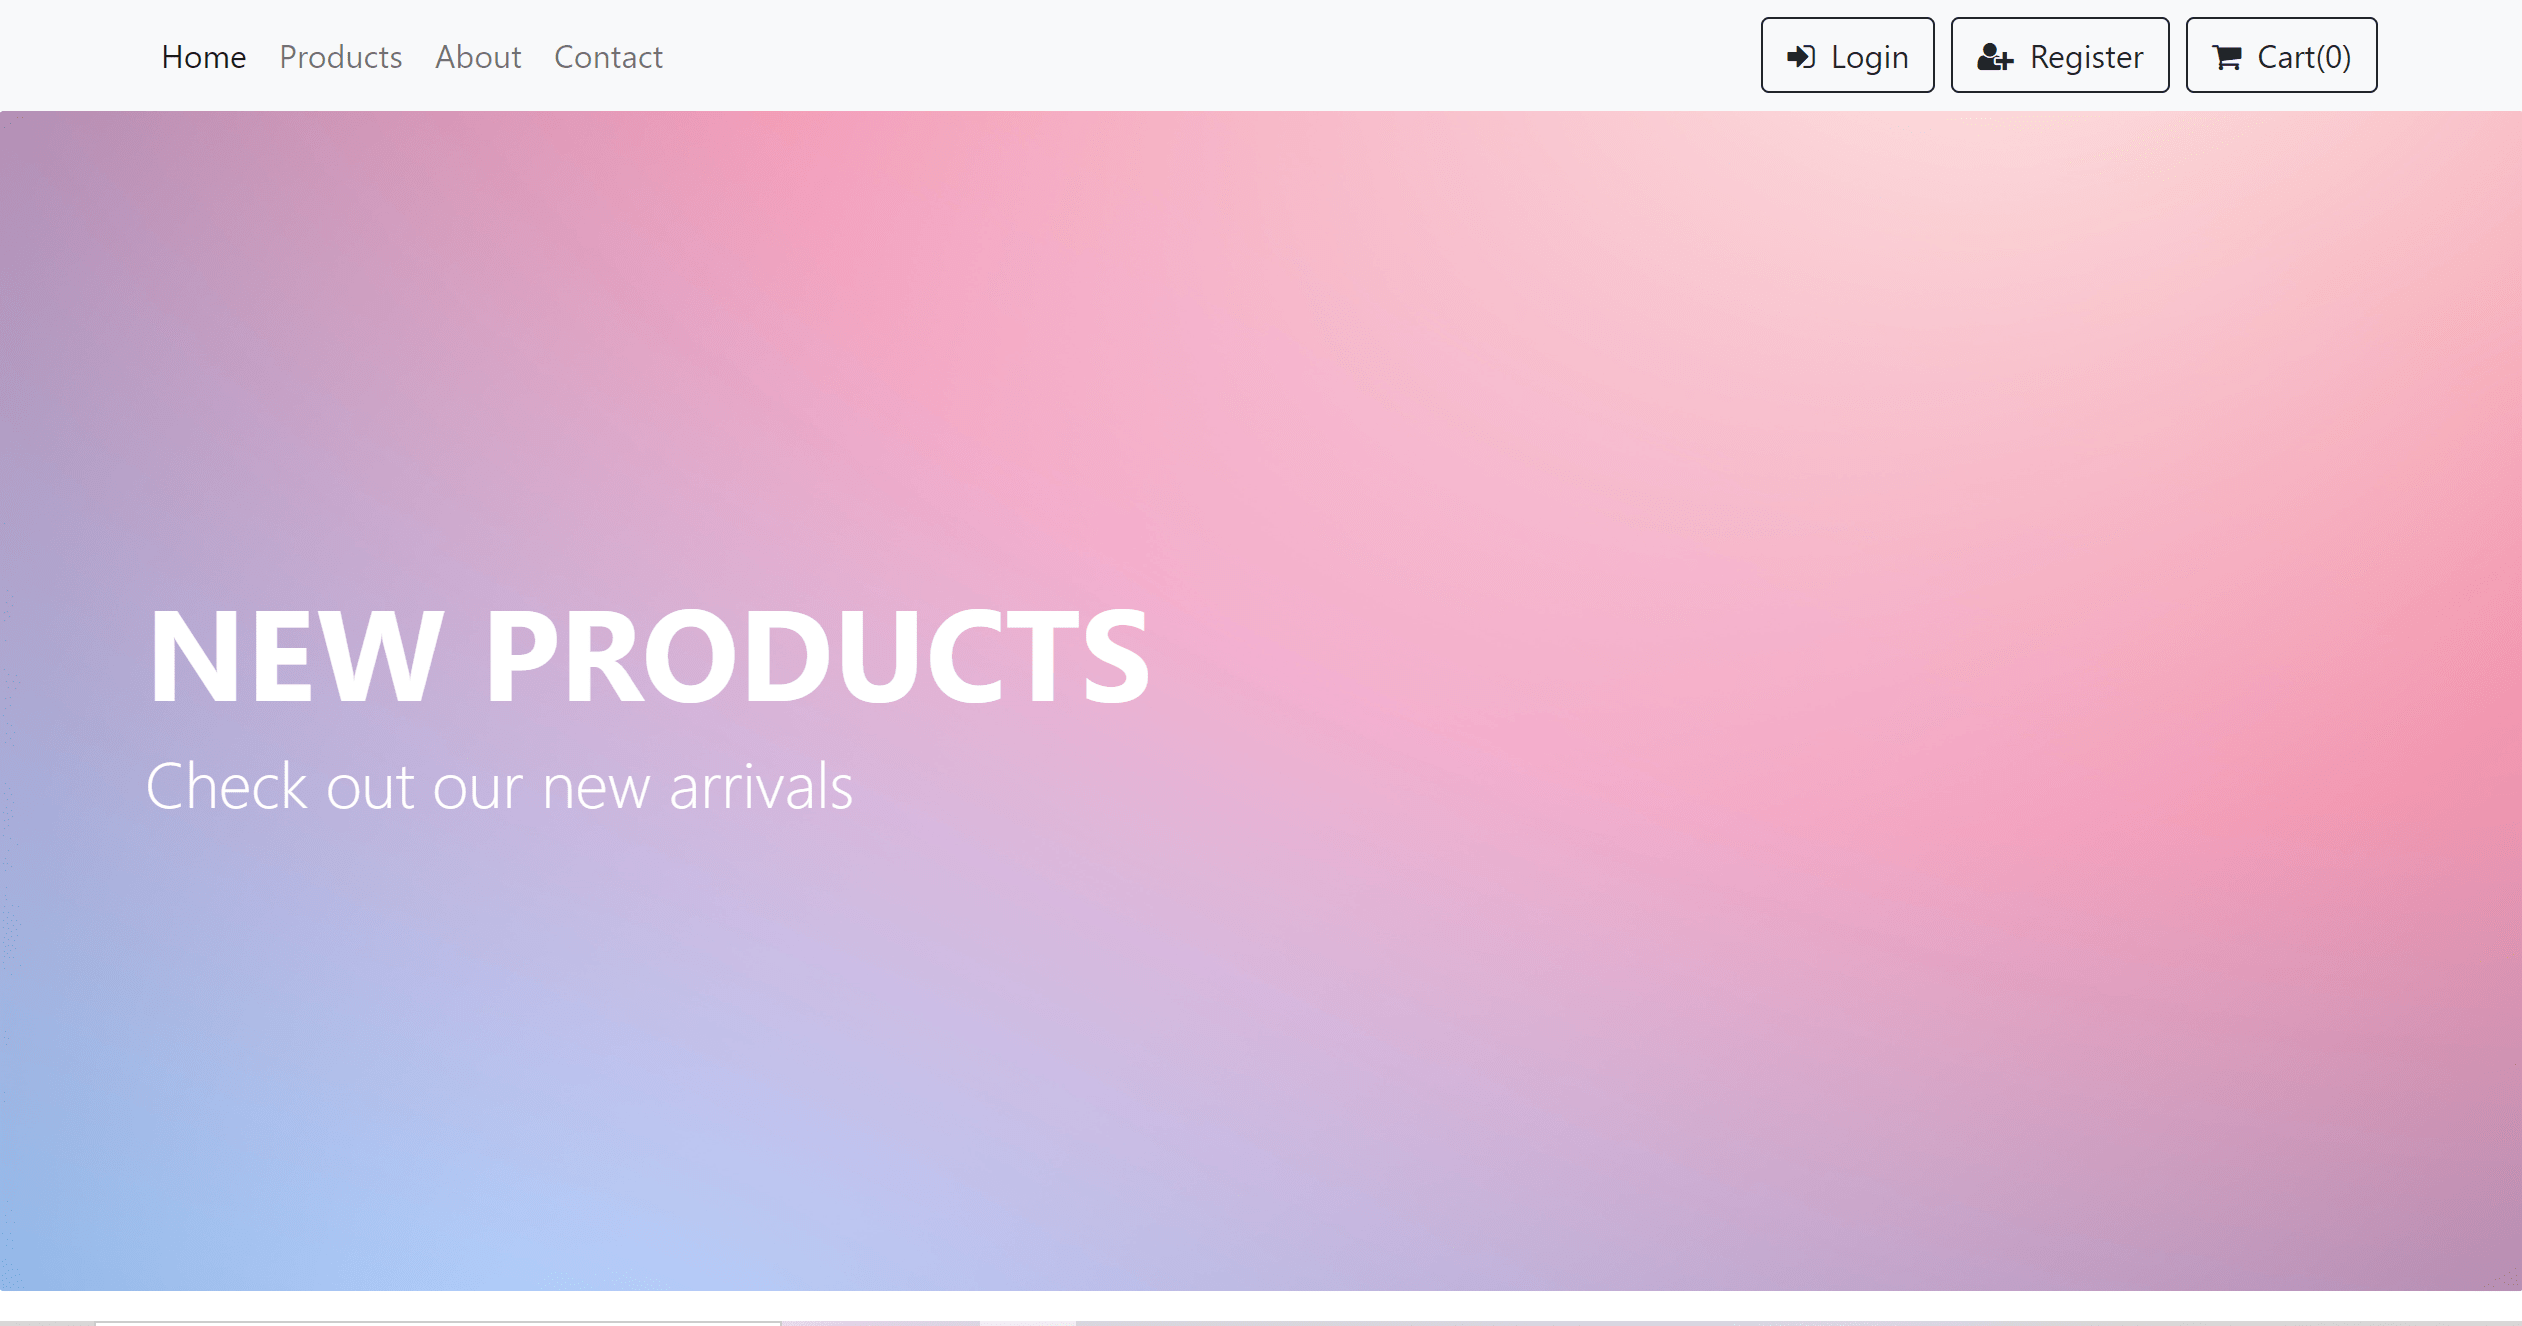
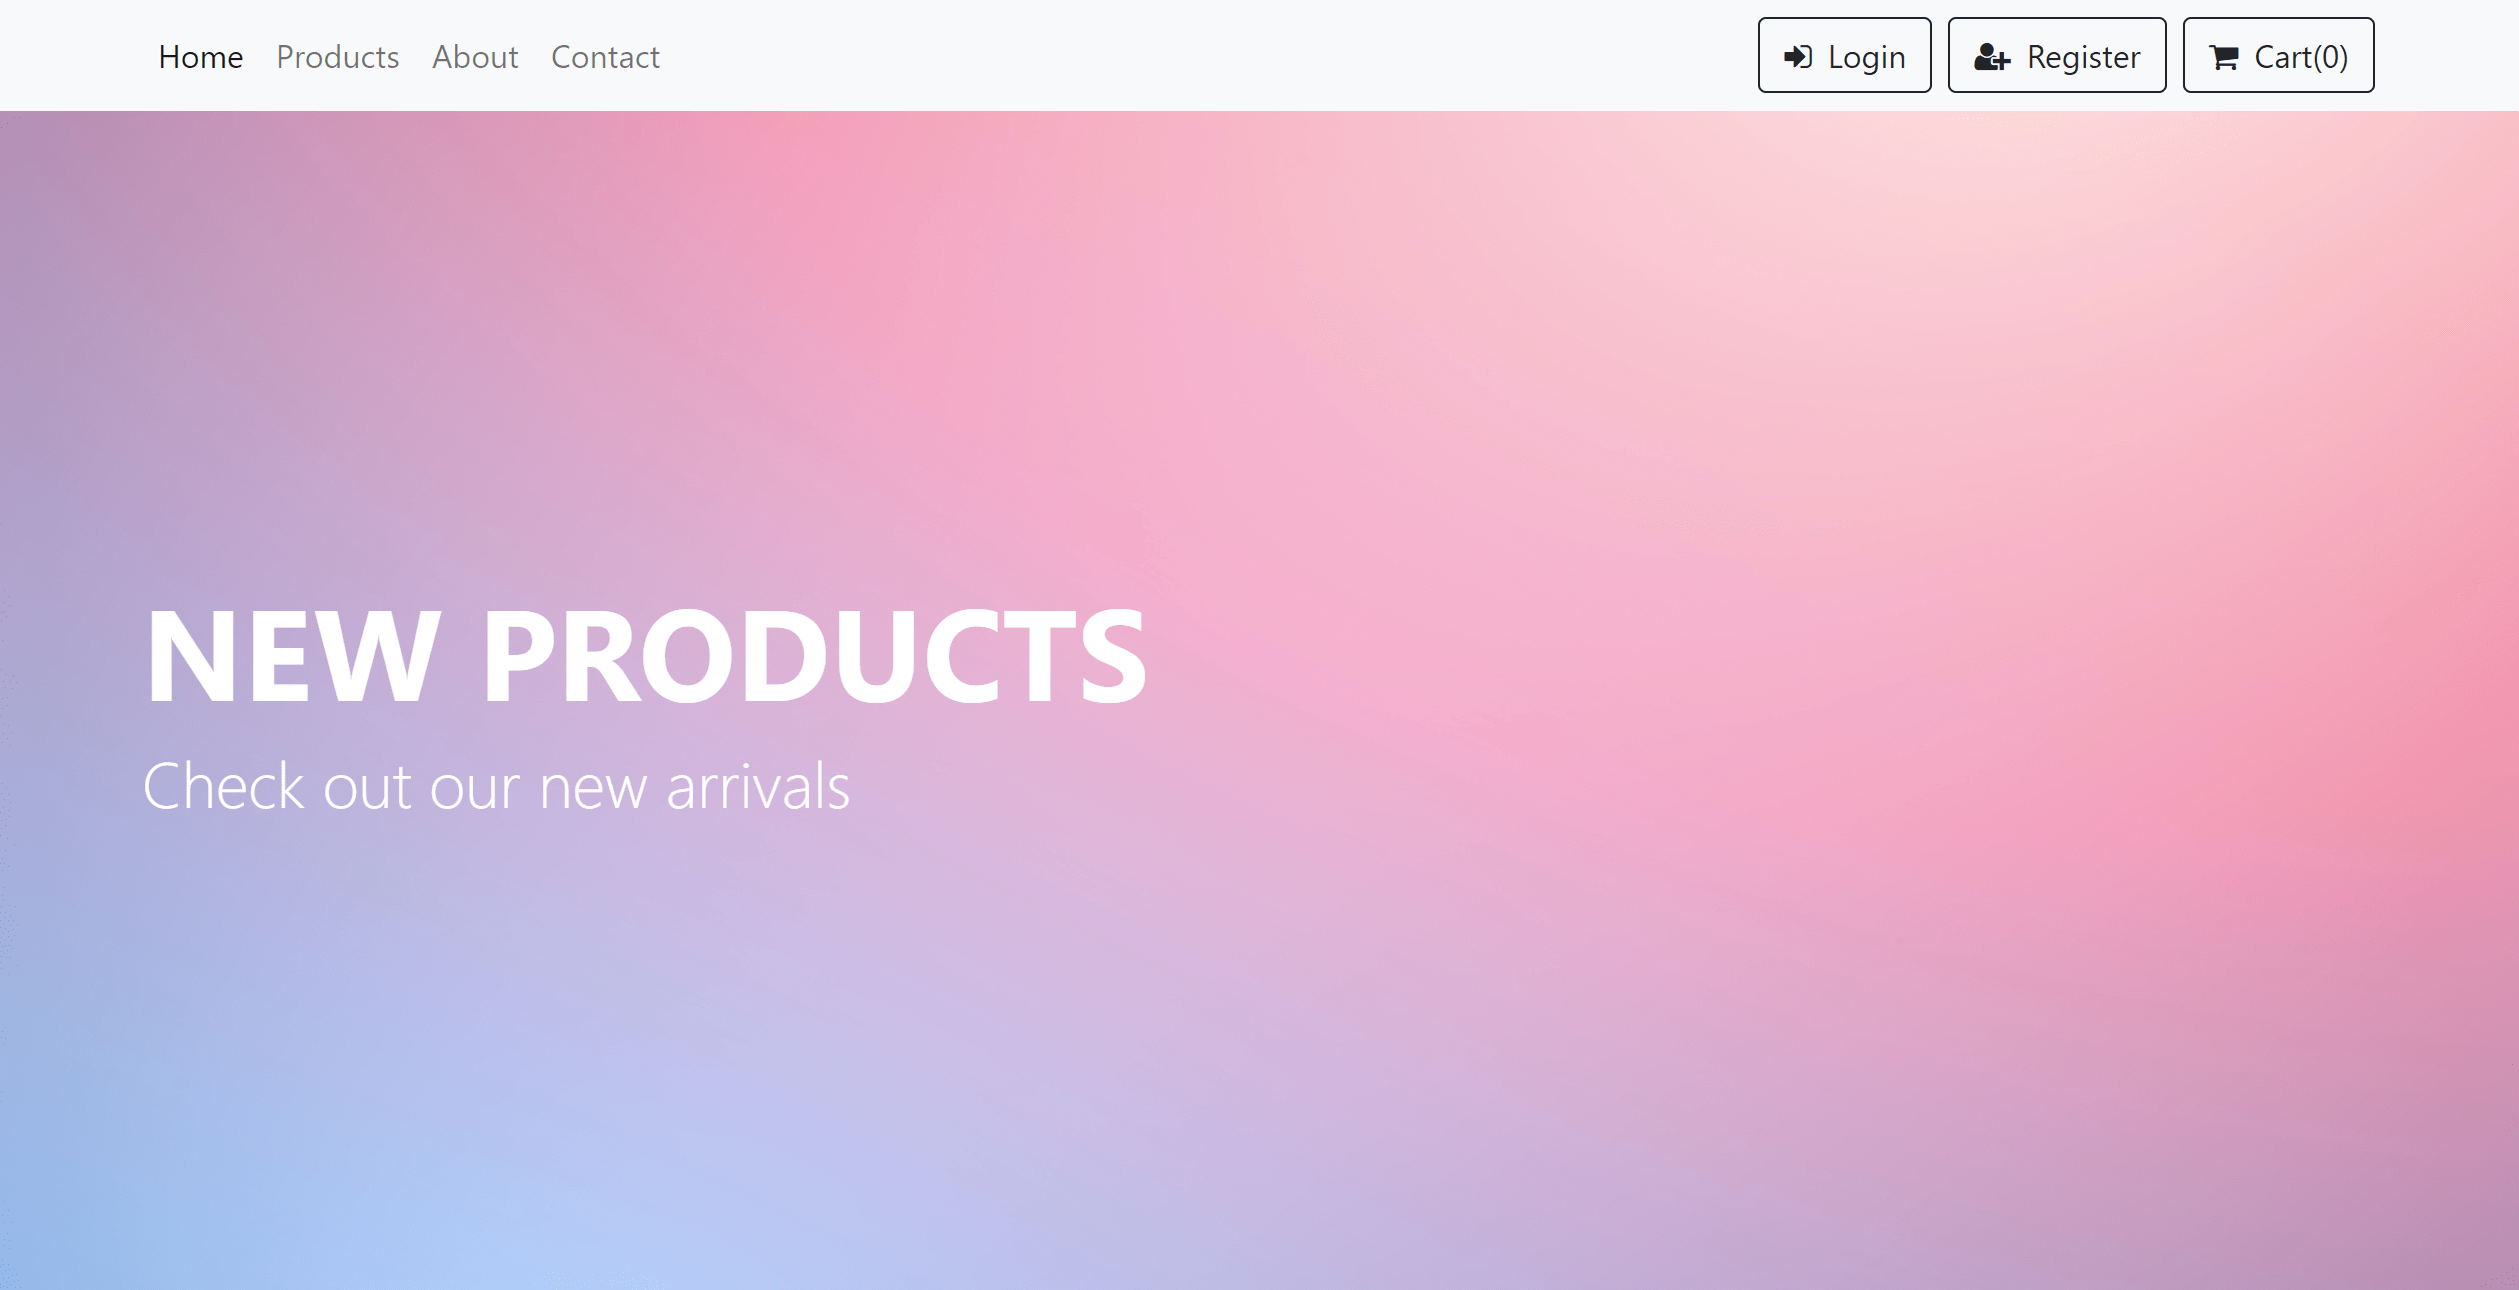
tablet design for hero

diff --git a/styles/components/_work.scss b/styles/components/_work.scss
@@ -4,39 +4,61 @@
     ul {
         display: flex;
         flex-direction: column;
+        align-items: center;
+        margin: 0px;
+        padding: 0px;
         li {
             list-style-type: none;
-            padding: 2rem;
-
-            a {
-                padding: 2rem;
-            }
+            margin: 6vh 8vh;   
+           
+        }
+        
+        p {
+            padding-right: 35px;
+            color: #393e46;
         }
     }
 
     img {
-        -webkit-filter: grayscale(100%); /* Safari 6.0 - 9.0 */
-        filter: grayscale(100%);
-        opacity: 0.25;
-    }
-    
-    img:hover {
-            filter: none;
-            opacity: 1;
-            transition: opacity 1s ease;
-    }
+    -webkit-filter: grayscale(50%); /* Safari 6.0 - 9.0 */
+    filter: grayscale(50%);
+    opacity: 0.35;
 }
 
-.photo-gallery {
-    align-self: end;
+img:hover {
+        filter: none;
+        opacity: 1;
+        transition: opacity 1s ease;
 }
 
-.work-card {
-    display: flex;
-    justify-content: space-between;
 }
+
 
 .work-title {
-    padding: 2rem;
     font-family: Roboto;
+    font-weight: 1600;
+    font-size: 1.2rem;
+}
+
+@include breakpoint-up(medium) {
+
+    .photo-gallery {
+        align-self: flex-end;
+    }
+    
+    .work-card {
+        display: flex;
+        justify-content: space-between;
+    }
+
+    .work-title {
+        padding: 2rem;
+    }
+
+    .work {
+    img {
+        -webkit-filter: grayscale(100%); /* Safari 6.0 - 9.0 */
+        filter: grayscale(100%);
+    }
+ }
 }

diff --git a/components/Work.jsx b/components/Work.jsx
@@ -16,12 +16,12 @@ const Work = () => {
                                width={500}
                                height={263}/>
                     </a>
-                    <p className='work-title'>Final Fantasy Notes</p>
+                    <h3 className='work-title'>Final Fantasy Notes</h3>
+                    <p>A tribute to the Final Fantasy franchise</p>
                     </div>
                 </li>
                 <li className='photo-gallery'>
                     <div className='work-card'>
-                    <p className='work-title'>Photo Gallery</p>
                     <a
                     href='https://pictures-photo-gallery.herokuapp.com/'
                     rel='noreferrer'
@@ -31,6 +31,8 @@ const Work = () => {
                         alt='photogallery thumbnail'
                         width={500}
                         height={263}/>
+                    <h3 className='work-title'>Photo Gallery</h3>
+                    <p>Photo Gallery from Unsplash</p>
                     </a>
                     </div>
                 </li>
@@ -46,7 +48,8 @@ const Work = () => {
                         width={500}
                         height={263}/>
                     </a>
-                    <p className='work-title'>eShop</p>
+                    <h3 className='work-title'>eShop</h3>
+                    <p>eShop experience</p>
                     </div>
                 </li>
             </ul>

diff --git a/styles/components/_header.scss b/styles/components/_header.scss
@@ -1,6 +1,6 @@
 .header {
     display: flex;
-    justify-content: start;
+    justify-content: flex-start;
     align-items: center;
     position: fixed;
     margin: 0px;
@@ -13,6 +13,10 @@
 .logo {
     width: 40px;
     height: 40px;
+
+    a {
+        text-decoration: none;
+    }
 }
 
 @include breakpoint-up(medium) {
@@ -23,7 +27,7 @@
 
    .nav { 
     padding: 1.25rem 3rem;
-    justify-content: flex-end
+    justify-content: flex-end;
    }
 
    a {

diff --git a/styles/components/_contact.scss b/styles/components/_contact.scss
@@ -2,11 +2,17 @@
     min-height: 100vh;
     height: auto;
     padding: 3rem;
-
+    display: flex;
+    flex-direction: column;
+    justify-content: space-around;
     h2 {
         font-family: Roboto;
-        font-size: 60px;
+        font-size: 50px;
         padding: 3rem 0;
+    }
+
+    a {
+        padding: 0px;
     }
 }
 

diff --git a/styles/components/_about.scss b/styles/components/_about.scss
@@ -1,6 +1,6 @@
 .about {
     font-size: 1.4rem;
-    align-self: end;
+    align-self: flex-end;
     text-align: right;
 }
 
@@ -8,7 +8,7 @@
     .about {
         font-size: $sm;
         padding: 20px;
-        justify-self: end;
-        align-self: end;
+        justify-self: flex-end;
+        align-self: flex-end;
     }
 }

diff --git a/styles/components/_hero.scss b/styles/components/_hero.scss
@@ -11,7 +11,7 @@
   min-height: 90vh;
   height: auto;
   margin: 5vh;
-  padding: 60px 20px 10px 20px;
+  padding: 60px 25px 10px 25px;
 }
 
 .title-container {
@@ -27,7 +27,7 @@
 .hero-container {
   display: flex;
   flex-direction: row;
-  padding: 90px 20px;
+  padding: 120px 50px;
 }
 
 h1 {

diff --git a/styles/_variables.scss b/styles/_variables.scss
@@ -8,5 +8,6 @@ $sm: 1.875rem;
 //Colours
 
 $black: black;
+//$beige: #fffaf1;
 $beige: #E6DED1;
 
